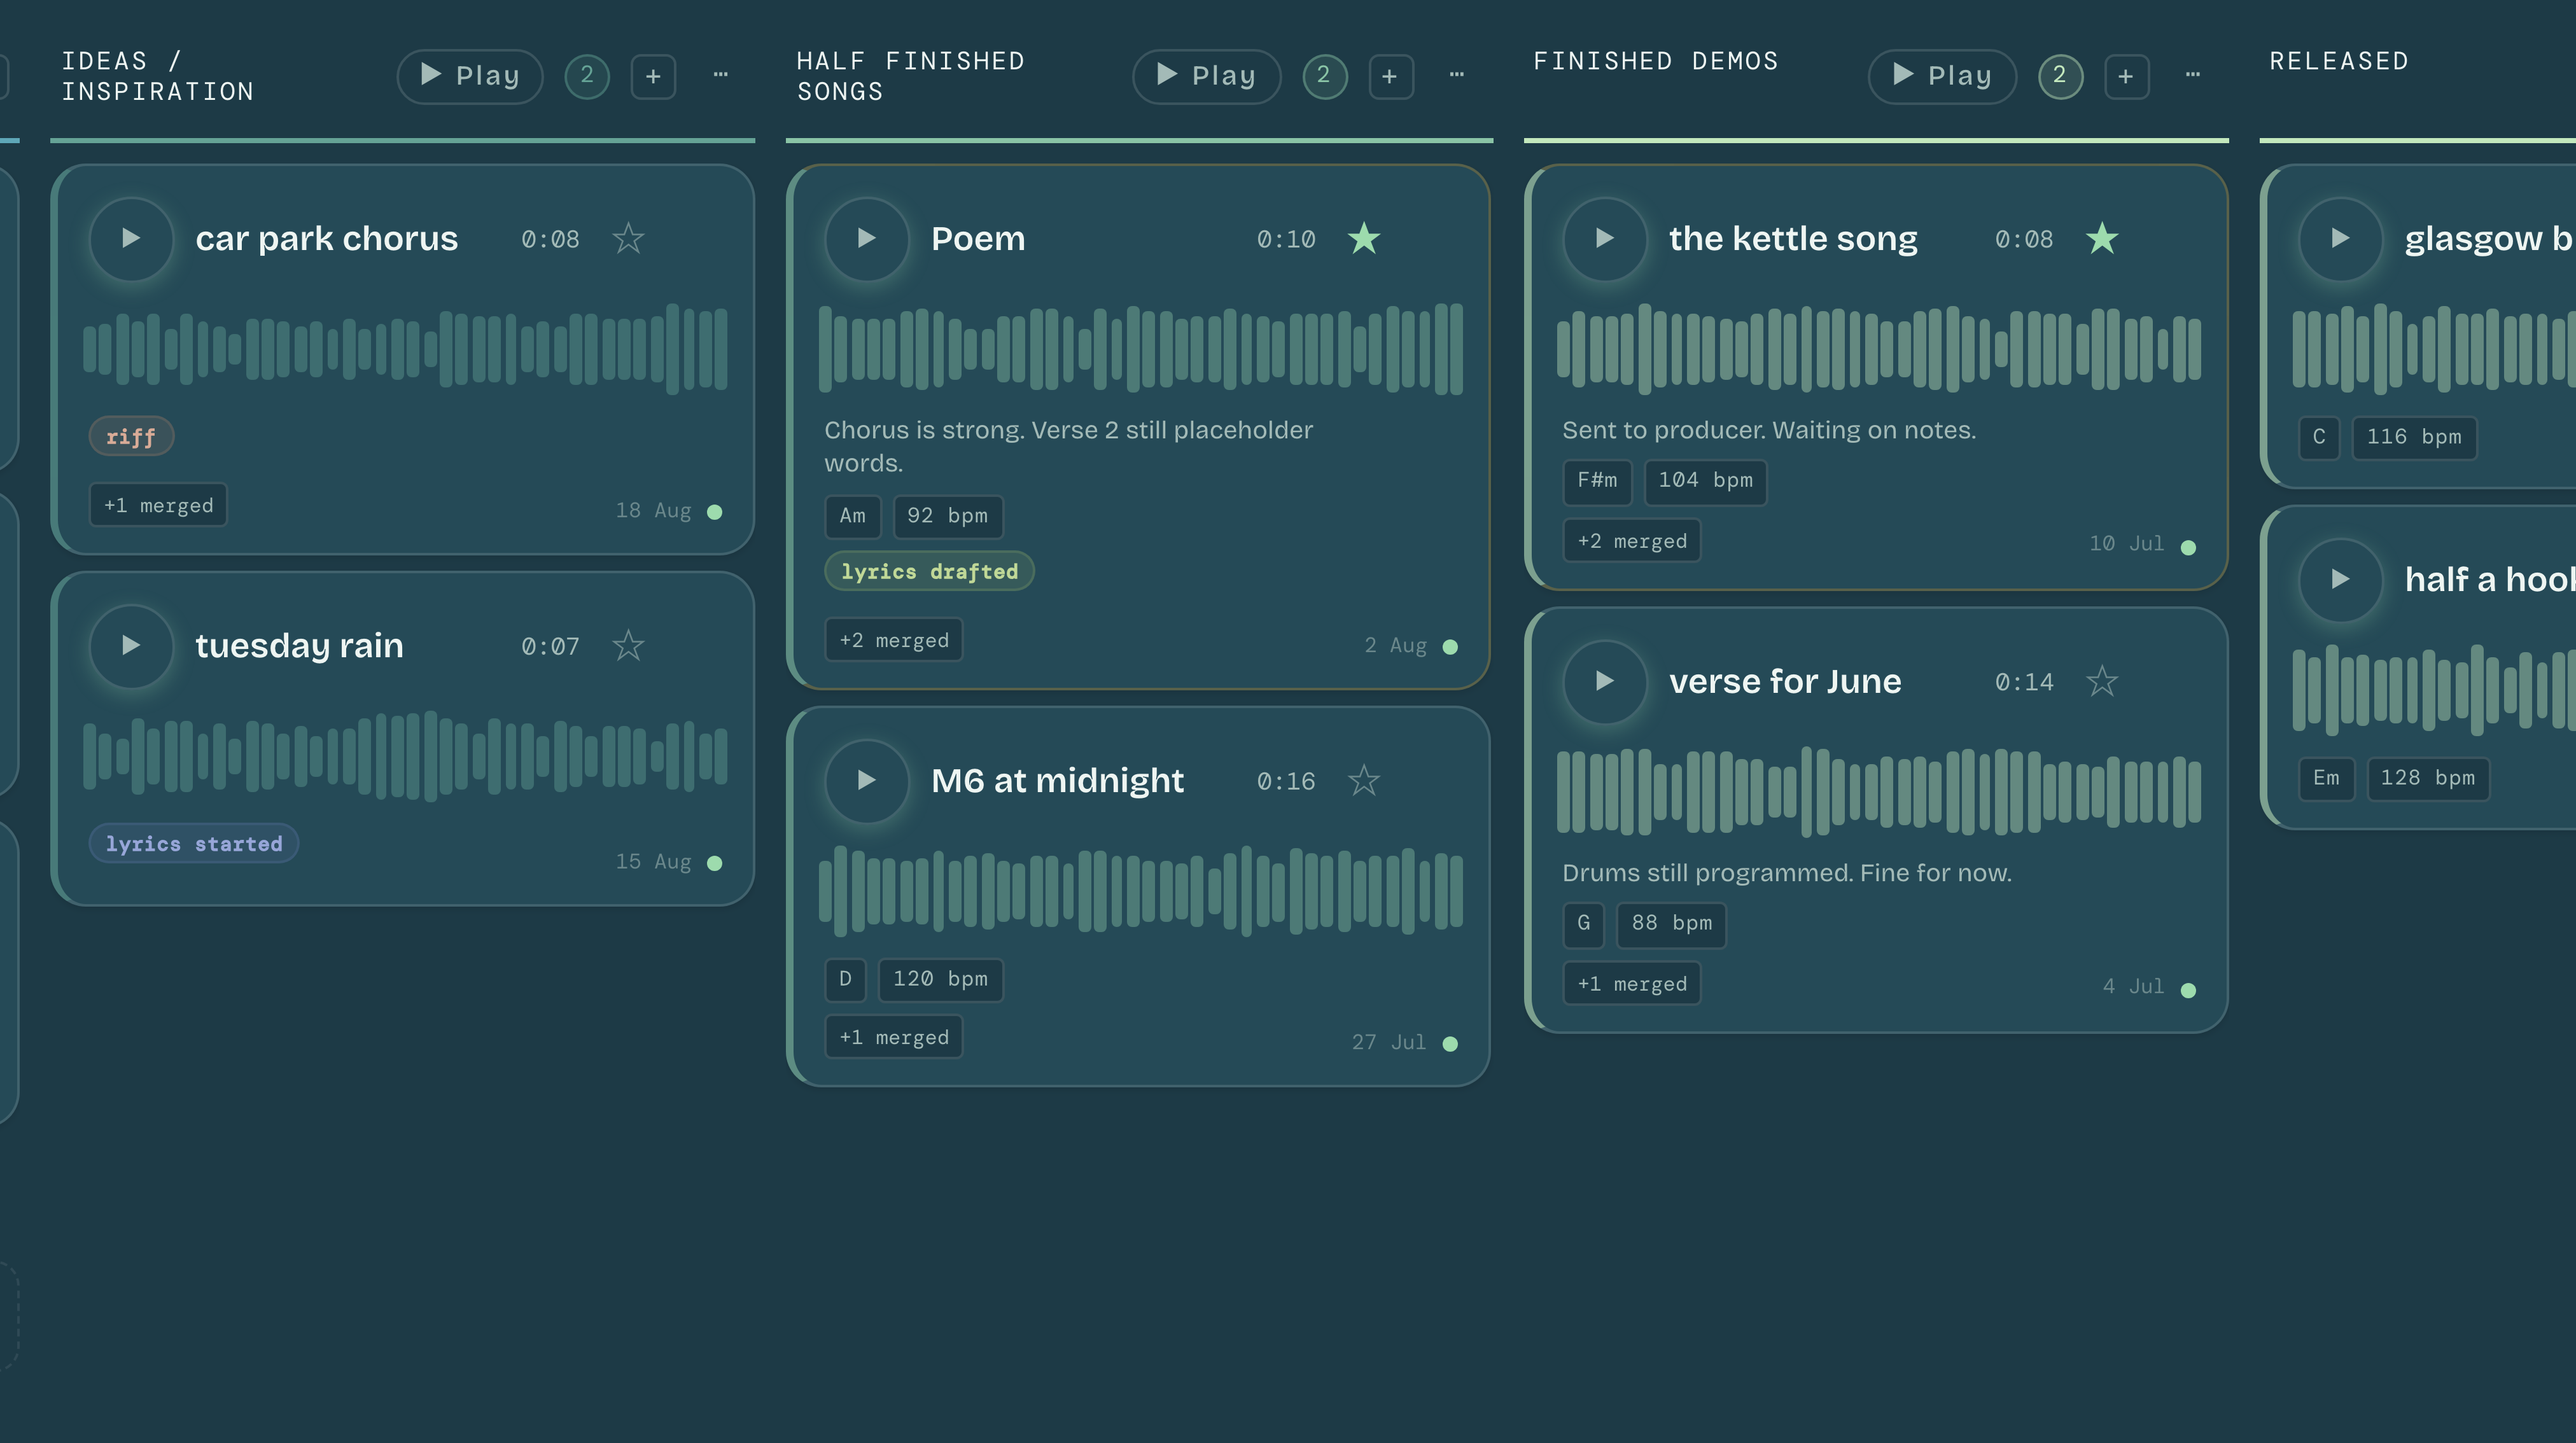
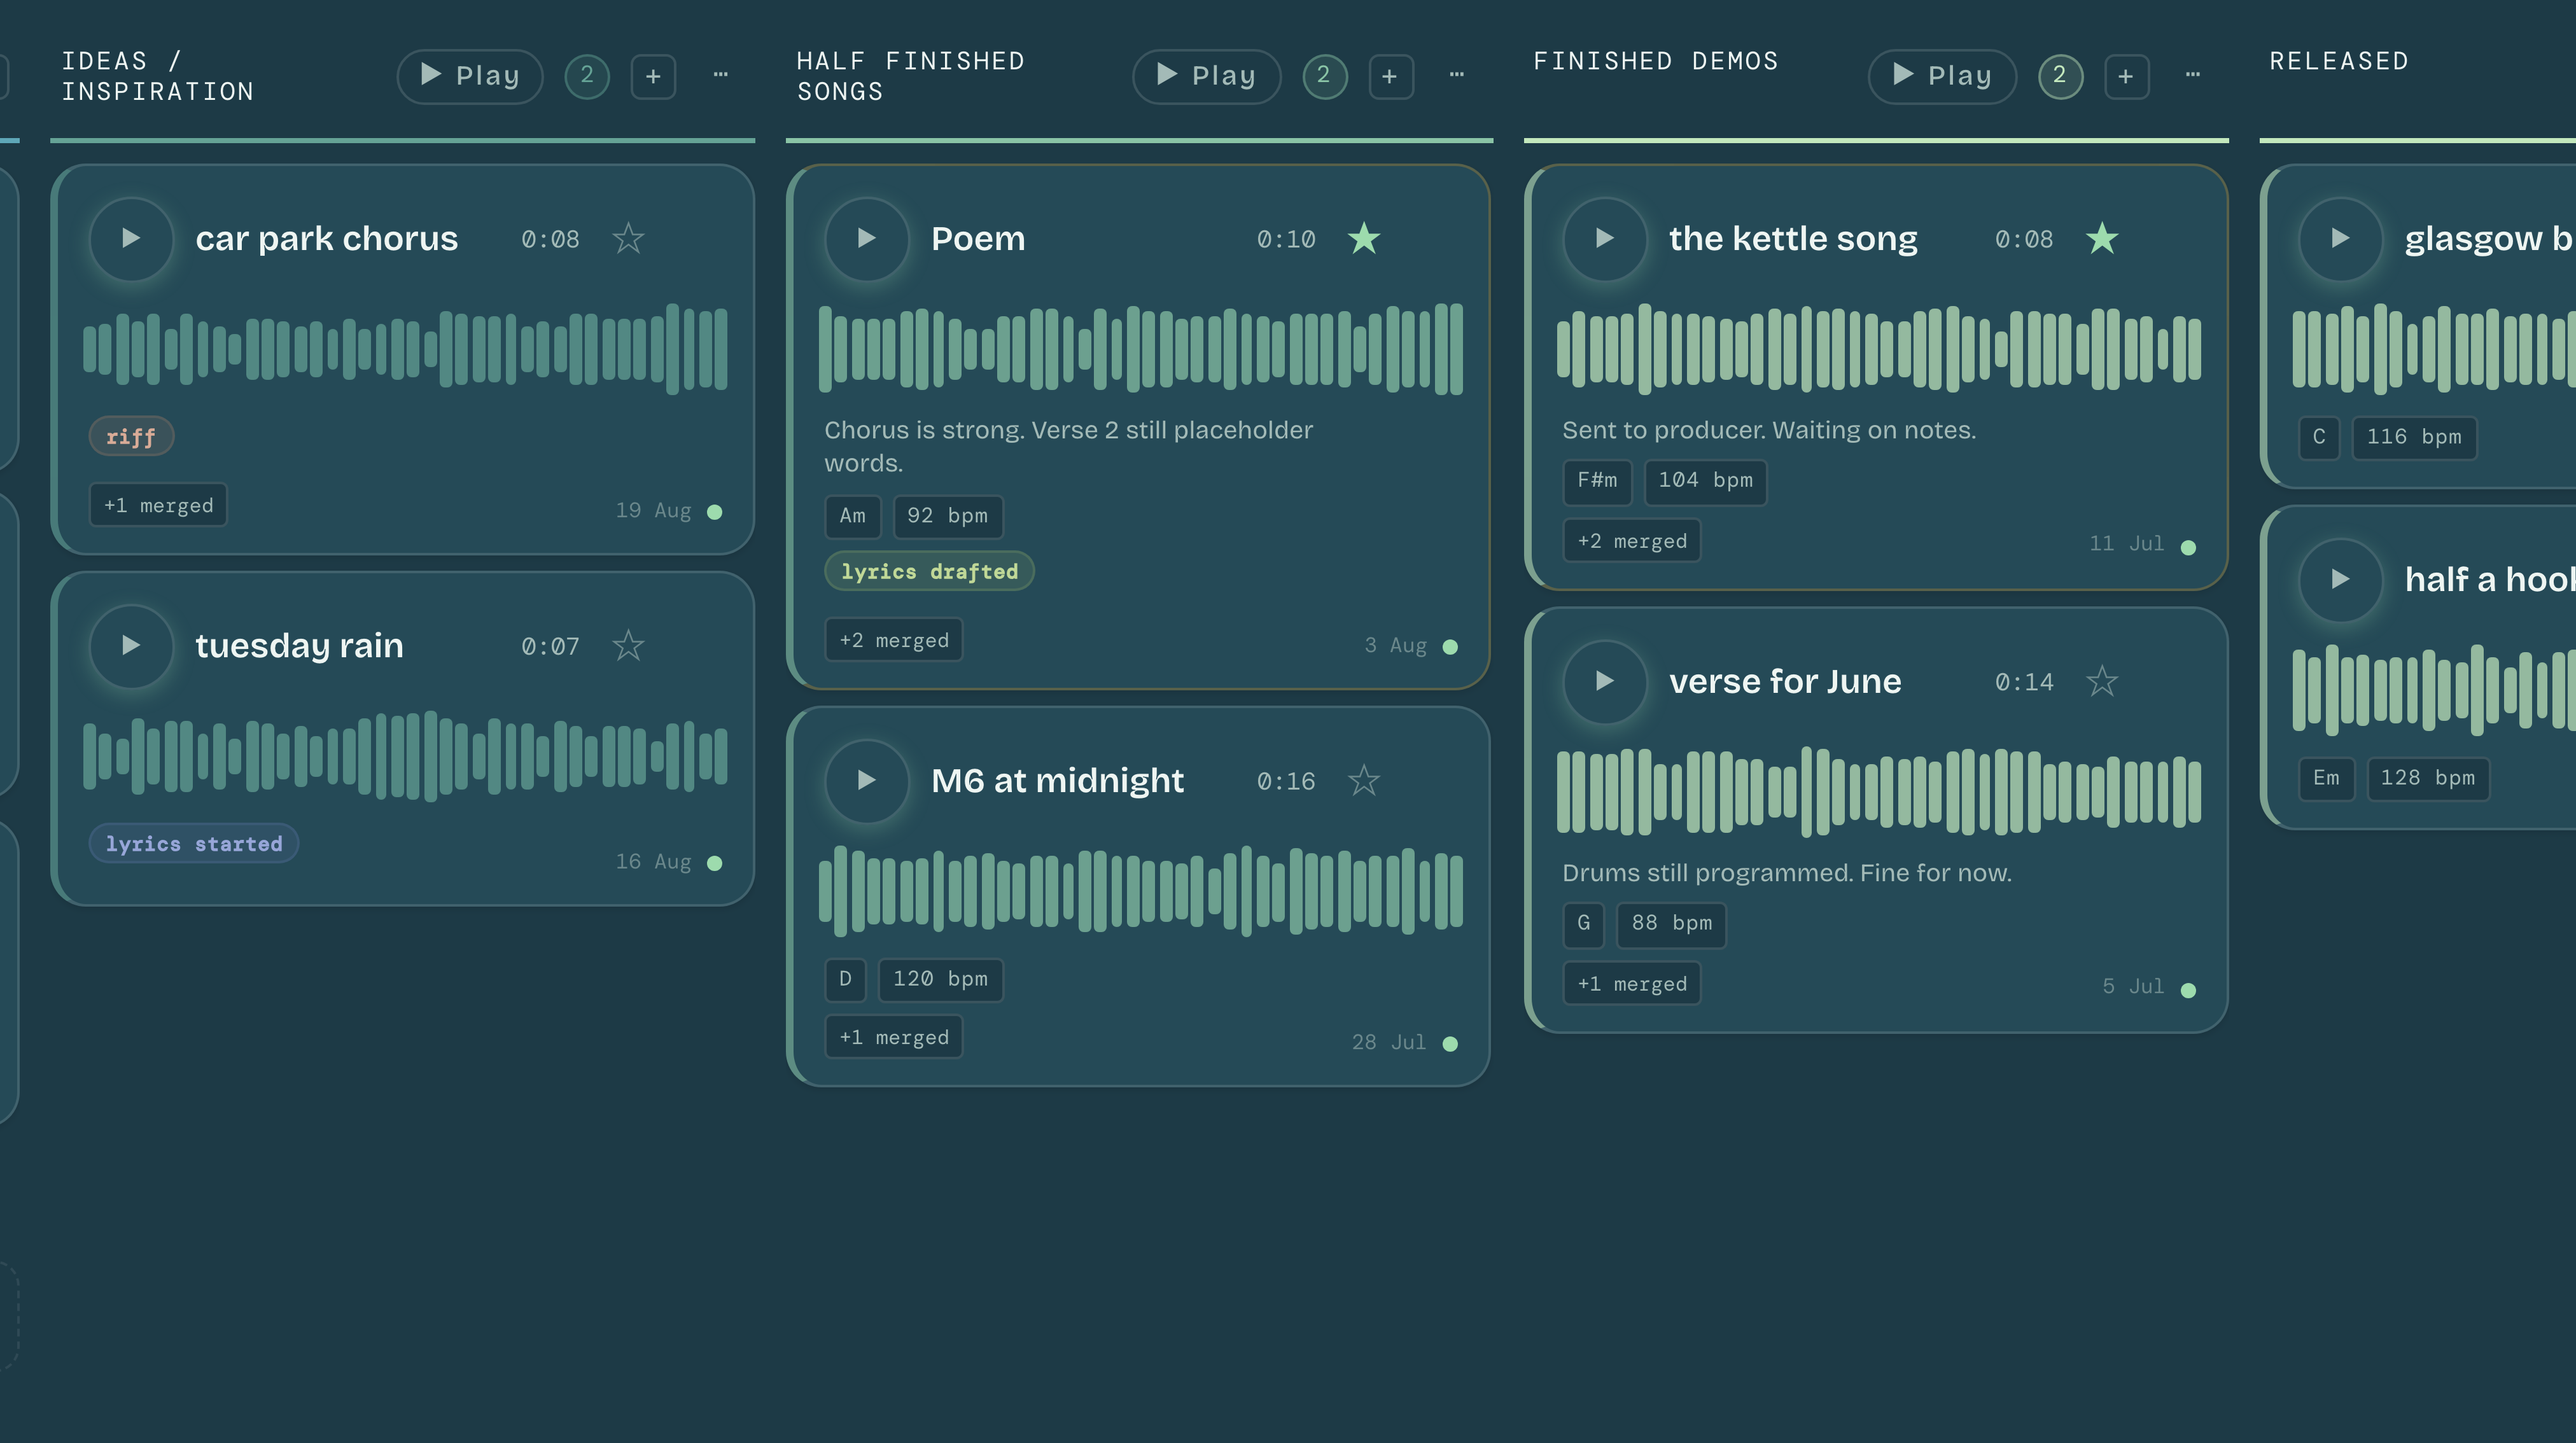
The ramp was applied but invisible: waveform ink 40% -> 70%
Brand Director's review said every waveform is still grey. Half right, and
the measurement explains it: the stage colouring WAS applied, but at 40%
alpha over --surface the four inks land on #3c6f7e #3f6e70 #4d7b77 #648980,
adjacent columns as close as 14.4 RGB distance. A ramp nobody can see is
grey. At 70% (full ink when played) the minimum gap is 24.7 and the hero
samples #528883 / #6ca08f / #94b99f across the board. Hero re-shot.

Also: the hero crop landed mid-card on the right (glasgow b..., half a
hoo...), reading as broken layout rather than a deliberate crop. A mask
fade at the right edge makes the board run off the side instead.

diff --git a/src/styles/board.css b/src/styles/board.css
@@ -8880,17 +8880,22 @@ html.light .board-column-header {
    The board read as a monochrome grey grid on slate: the one place the ramp
    should be loudest was the one place it was absent. The playing card keeps
    the accent alone (rule 1). --stage-ink is set per column. */
+/* 70%, not 40%. Measured over --surface, the four stage inks at 40% land on
+   #3c6f7e #3f6e70 #4d7b77 #648980 — adjacent columns differ by as little as
+   14.4 in RGB distance, so the ramp collapsed and every waveform read grey
+   even though the colour was being applied. At 70% the minimum adjacent gap
+   is 24.7 and the ramp is legible across the board. */
 .board-column .wf-bar {
-  background: color-mix(in srgb, var(--stage-ink, var(--text)) 40%, transparent);
+  background: color-mix(in srgb, var(--stage-ink, var(--text)) 70%, transparent);
 }
 .board-column .wf-bar.is-played {
-  background: color-mix(in srgb, var(--stage-ink, var(--text)) 72%, transparent);
+  background: var(--stage-ink, var(--text));
 }
 .board-column .wf-bar.is-active { background: color-mix(in srgb, var(--accent) 34%, transparent); }
 .board-column .wf-bar.is-active.is-played { background: var(--accent); }
 
 /* Light mode: the stage colouring must still win over the neutral light bars above. */
-html.light .board-column .wf-bar { background: color-mix(in srgb, var(--stage-ink, var(--text)) 46%, transparent); }
-html.light .board-column .wf-bar.is-played { background: color-mix(in srgb, var(--stage-ink, var(--text)) 78%, transparent); }
+html.light .board-column .wf-bar { background: color-mix(in srgb, var(--stage-ink, var(--text)) 72%, transparent); }
+html.light .board-column .wf-bar.is-played { background: var(--stage-ink, var(--text)); }
 html.light .board-column .wf-bar.is-active { background: color-mix(in srgb, var(--accent) 30%, transparent); }
 html.light .board-column .wf-bar.is-active.is-played { background: var(--accent); }

diff --git a/src/styles/landing.css b/src/styles/landing.css
@@ -1618,6 +1618,13 @@ a.nav-cta {
     0 32px 70px rgba(0, 0, 0, 0.55),
     0 4px 12px rgba(0, 0, 0, 0.4);
   line-height: 0;
+  /* The crop lands mid-card on the right ("glasgow b...", "half a hoo..."),
+     which reads as a broken layout rather than a board that continues. A
+     short fade at that edge makes the cut deliberate: the board runs off the
+     side, it is not chopped. Masked rather than overlaid so it works on any
+     ground and costs no extra element. */
+  -webkit-mask-image: linear-gradient(to right, #000 88%, transparent 100%);
+  mask-image: linear-gradient(to right, #000 88%, transparent 100%);
 }
 
 .hero-shot img {
